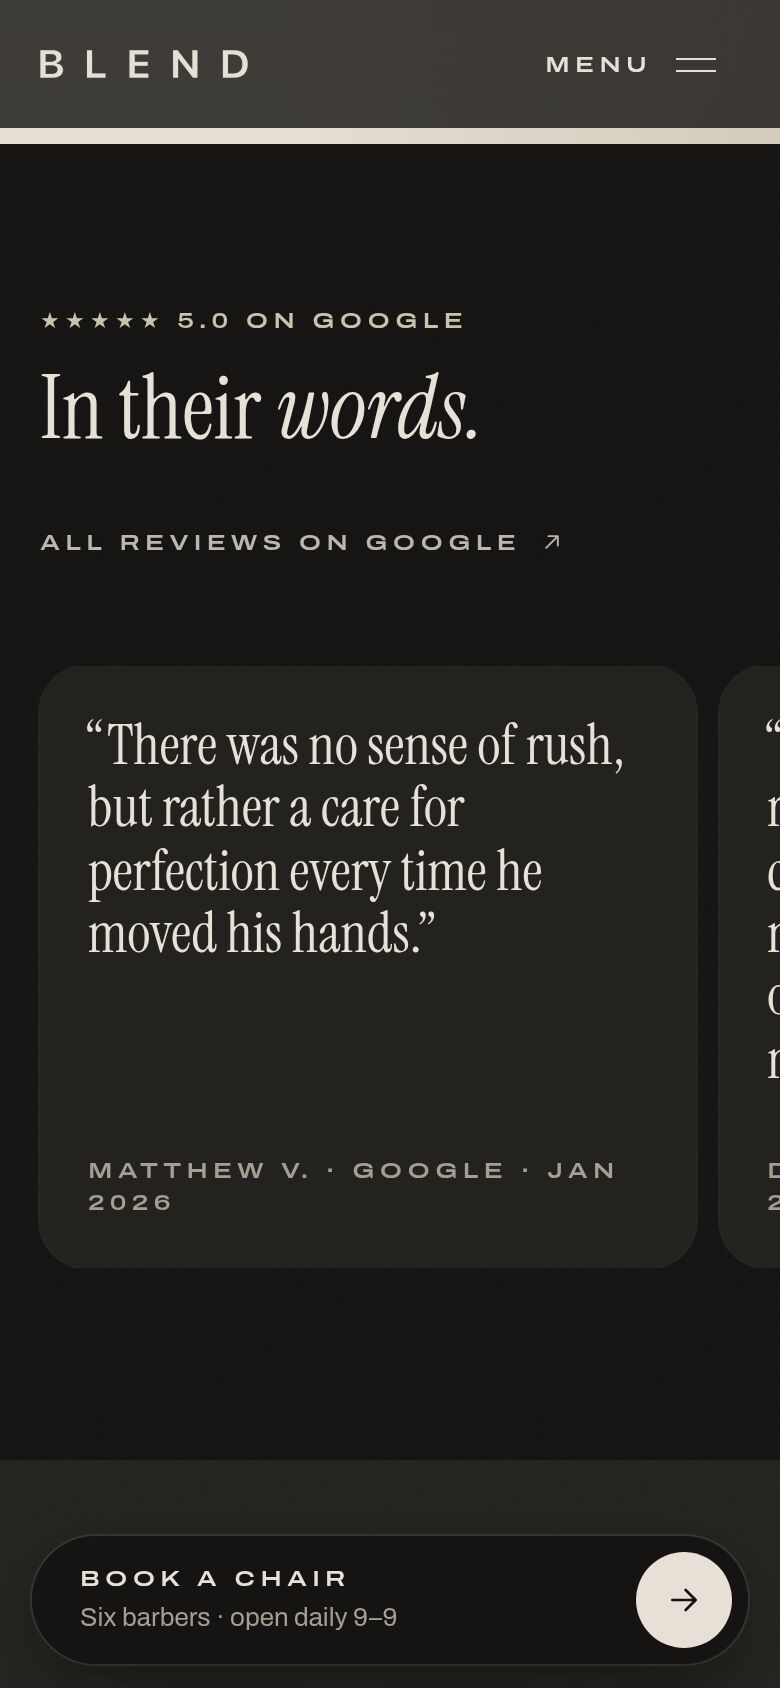
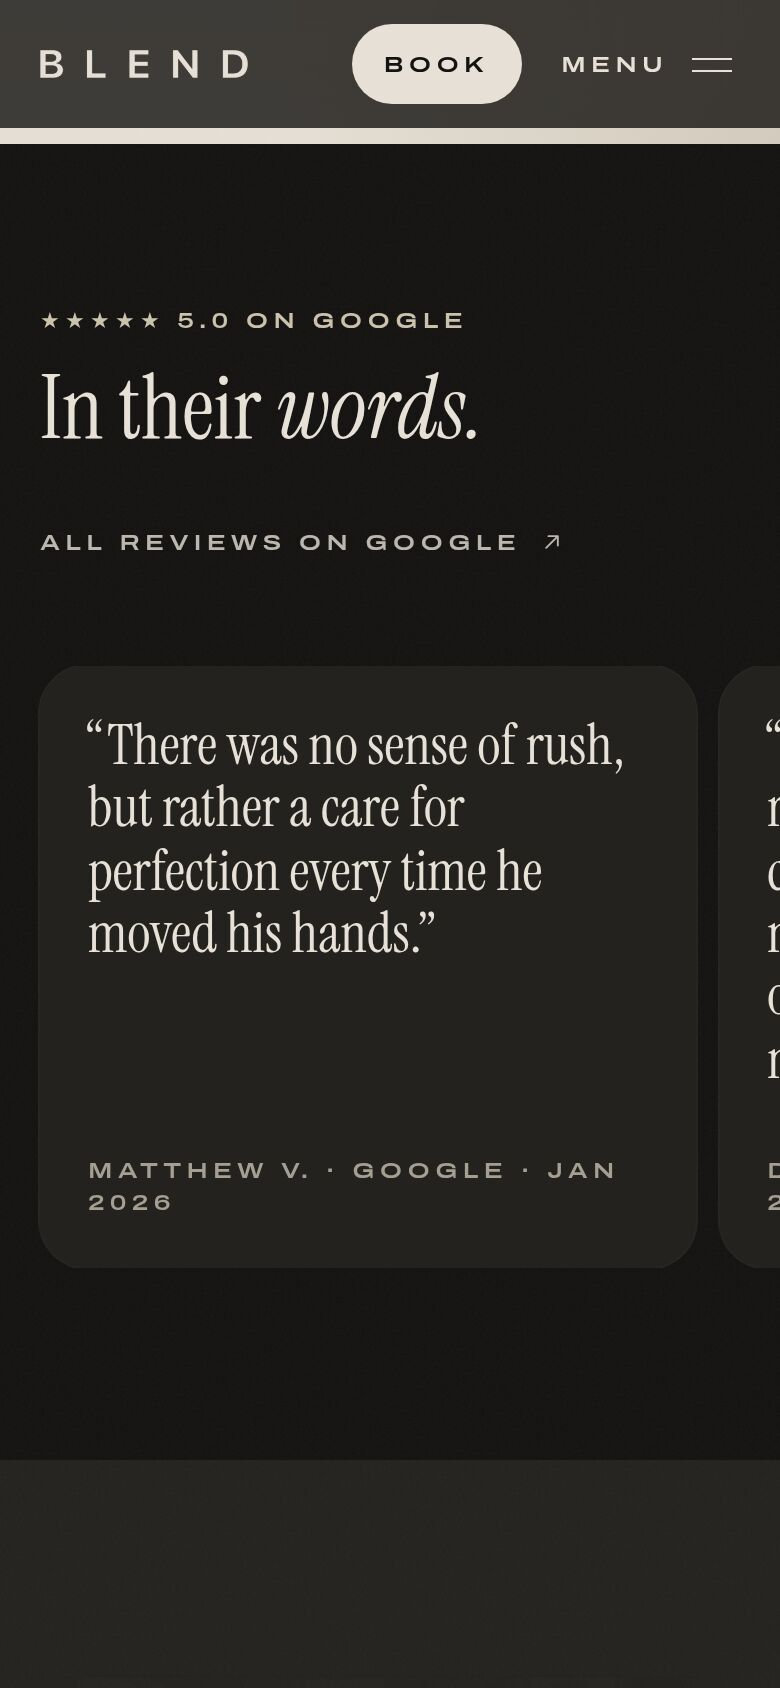
Move mobile booking from a floating bar into the header
The persistent bottom bar covered content and interrupted scrolling on
phones. A compact Book button in the header keeps booking one tap away
on every screen without overlapping the story.

Amp-Thread-ID: https://ampcode.com/threads/T-01a18838-fea1-713a-a723-a81a699fa00f

diff --git a/src/components/Chrome.tsx b/src/components/Chrome.tsx
@@ -49,11 +49,12 @@ export function Header({ onMenu }: { onMenu: () => void }) {
           </ul>
         </nav>
         <div className="flex items-center gap-2">
-          <button onClick={() => book()} className="press label hidden h-11 items-center gap-2 rounded-full bg-plaster px-5 whitespace-nowrap text-ink hover:bg-white lg:flex">
-            Book a chair <Arrow className="size-4" />
+          {/* Booking lives in the header so it is always one tap away without covering content. */}
+          <button onClick={() => book()} aria-label="Book a chair" className="press label flex h-10 items-center gap-2 rounded-full bg-plaster px-4 whitespace-nowrap text-ink hover:bg-white lg:h-11 lg:px-5">
+            Book<span className="hidden lg:inline"> a chair</span> <Arrow className="hidden size-4 sm:block" />
           </button>
-          <button onClick={onMenu} className="press label flex h-11 items-center gap-3 rounded-full px-3 xl:hidden" aria-label="Open menu">
-            Menu
+          <button onClick={onMenu} className="press label flex h-11 items-center gap-3 rounded-full pr-1 pl-3 xl:hidden" aria-label="Open menu">
+            <span className="max-[379px]:hidden">Menu</span>
             <span className="flex w-5 flex-col gap-[5px]" aria-hidden>
               <span className="h-px bg-current" />
               <span className="h-px bg-current" />
@@ -117,31 +118,5 @@ export function Menu({ open, onClose }: { open: boolean; onClose: () => void }) 
         </div>
       </div>
     </Dialog>
-  )
-}
-
-/** Persistent mobile booking action. Hidden while another booking button is on screen. */
-export function Dock({ hidden }: { hidden: boolean }) {
-  const book = useBooking()
-  return (
-    <div
-      className={`fixed inset-x-0 bottom-0 z-30 px-4 pb-[max(0.75rem,env(safe-area-inset-bottom))] transition-[transform,opacity] duration-500 ease-out-soft lg:hidden ${
-        hidden ? 'pointer-events-none translate-y-[130%] opacity-0' : ''
-      }`}
-      inert={hidden}
-    >
-      <button
-        onClick={() => book()}
-        className="press mx-auto flex h-16 w-full max-w-md items-center justify-between rounded-full bg-ink/90 pr-2 pl-6 text-left text-plaster shadow-[0_12px_40px_-8px_rgb(0_0_0/0.5)] ring-1 ring-plaster/10 backdrop-blur-xl"
-      >
-        <span>
-          <span className="label block">Book a chair</span>
-          <span className="mt-0.5 block text-[0.8125rem] text-fog">Six barbers · open daily 9–9</span>
-        </span>
-        <span className="grid size-12 place-items-center rounded-full bg-plaster text-ink">
-          <Arrow className="size-5" />
-        </span>
-      </button>
-    </div>
   )
 }

diff --git a/src/App.tsx b/src/App.tsx
@@ -1,8 +1,8 @@
-import { useCallback, useEffect, useRef, useState } from 'react'
+import { useCallback, useState } from 'react'
 import type { Barber } from './data/blend'
 import { BookingContext } from './components/booking'
 import { BookingSheet } from './components/BookingSheet'
-import { Dock, Header, Menu } from './components/Chrome'
+import { Header, Menu } from './components/Chrome'
 import { Hero } from './sections/Hero'
 import { Experience } from './sections/Experience'
 import { Barbers } from './sections/Barbers'
@@ -13,25 +13,8 @@ import { Footer, Series, Visit } from './sections/Visit'
 export default function App() {
   const [sheet, setSheet] = useState<{ open: boolean; barber?: Barber }>({ open: false })
   const [menu, setMenu] = useState(false)
-  const [pastHero, setPastHero] = useState(false)
-  const [visitInView, setVisitInView] = useState(false)
-  const visitCta = useRef<HTMLDivElement>(null)
 
   const book = useCallback((barber?: Barber) => setSheet({ open: true, barber }), [])
-
-  // The dock appears once the hero's own booking button has scrolled away,
-  // and steps aside when the closing "Book a chair" is on screen.
-  useEffect(() => {
-    const on = () => setPastHero(window.scrollY > window.innerHeight * 0.45)
-    on()
-    window.addEventListener('scroll', on, { passive: true })
-    const io = new IntersectionObserver(([e]) => setVisitInView(e.isIntersecting))
-    io.observe(visitCta.current!)
-    return () => {
-      window.removeEventListener('scroll', on)
-      io.disconnect()
-    }
-  }, [])
 
   return (
     <BookingContext.Provider value={book}>
@@ -46,10 +29,9 @@ export default function App() {
         <Services />
         <Work />
         <Series />
-        <Visit ref={visitCta} />
+        <Visit />
       </main>
       <Footer />
-      <Dock hidden={!pastHero || visitInView || sheet.open || menu} />
       <Menu open={menu} onClose={() => setMenu(false)} />
       <BookingSheet
         open={sheet.open}

diff --git a/src/sections/Visit.tsx b/src/sections/Visit.tsx
@@ -1,4 +1,3 @@
-import { forwardRef } from 'react'
 import { blend } from '../data/blend'
 import { useBooking } from '../components/booking'
 import { Img } from '../components/Img'
@@ -35,7 +34,7 @@ export function Series() {
   )
 }
 
-export const Visit = forwardRef<HTMLDivElement>(function Visit(_, ctaRef) {
+export function Visit() {
   const book = useBooking()
   return (
     <section id="visit" aria-labelledby="visit-title" className="wall grain px-5 pt-24 pb-16 lg:px-10 lg:pt-36 lg:pb-24">
@@ -47,7 +46,7 @@ export const Visit = forwardRef<HTMLDivElement>(function Visit(_, ctaRef) {
               Your chair <br />
               <em>is waiting.</em>
             </h2>
-            <div ref={ctaRef} className="reveal mt-10 flex flex-col gap-3 sm:flex-row">
+            <div className="reveal mt-10 flex flex-col gap-3 sm:flex-row">
               <button onClick={() => book()} className="press label flex h-16 items-center justify-center gap-3 rounded-full bg-ink px-9 text-plaster hover:bg-ink-soft">
                 Book a chair <Arrow className="size-4" />
               </button>
@@ -114,11 +113,11 @@ export const Visit = forwardRef<HTMLDivElement>(function Visit(_, ctaRef) {
       </div>
     </section>
   )
-})
+}
 
 export function Footer() {
   return (
-    <footer className="bg-ink px-5 pt-16 pb-[calc(env(safe-area-inset-bottom)+7rem)] text-plaster lg:px-10 lg:pb-12">
+    <footer className="bg-ink px-5 pt-16 pb-[calc(env(safe-area-inset-bottom)+3rem)] text-plaster lg:px-10 lg:pb-12">
       <div className="mx-auto max-w-[1440px]">
         <Logo full className="w-[min(100%,560px)] text-plaster" />
         <div className="mt-12 flex flex-col gap-4 border-t border-plaster/10 pt-6 text-sm text-fog lg:flex-row lg:justify-between">

diff --git a/DESIGN_NOTES.md b/DESIGN_NOTES.md
@@ -75,12 +75,12 @@ Signature mobile moments:
 1. **Cinematic hero.** It loads instantly, with no intro or splash. The photo drifts and scales slightly as you scroll, and the headline fades up and away.
 2. **Stacking experience cards.** Pure `position: sticky`: each chapter card pins and the next slides over it, while the one behind recedes. Native scrolling, no hijacking.
 3. **Swipeable barbers.** Scroll-snap cards with a progress rail and counter, plus previous and next buttons for desktop and keyboard users.
-4. **The booking sheet ("Book" mode).** A native-feeling bottom sheet you can swipe down to dismiss. It opens from the persistent dock, the hero, any barber card or the closing chapter.
+4. **The booking sheet ("Book" mode).** A native-feeling bottom sheet you can swipe down to dismiss. It opens from the header's Book button, the hero, any barber card or the closing chapter.
    - It lists the five most-booked services with prices, each deep-linked to Square.
    - A barber chip row switches every link to that barber's calendar (`team_member_id`).
    - Only the service list scrolls; "All services on Square", Call, Text and Directions stay pinned at the bottom, sized to the visible viewport (`dvh`) so phone toolbars can't hide them.
 5. **The portrait wall.** Alternate columns drift against the scroll; tap any portrait for a full-screen, swipeable, keyboard-navigable viewer.
-6. **Persistent dock.** "Book a chair · Six barbers · open daily 9–9". It appears once the hero's own button has scrolled away and steps aside when the closing "Book a chair" is on screen, so booking is always one tap away without stacking repeated buttons.
+6. **Book in the header.** A compact "Book" pill sits in the header on every screen ("Book a chair" on desktop), so booking is always one tap away without covering content. An earlier floating bottom bar was removed after review because it got in the way of scrolling on phones.
 
 Motion rules:
 - Scroll-linked effects use CSS scroll-driven animations (`animation-timeline`), which animate only transform and opacity. They need no JavaScript and fall back to static layouts.
@@ -90,7 +90,7 @@ Motion rules:
 
 ## Booking and conversion strategy
 
-- **Explore or book, never forced.** Every chapter can be skipped. Booking is reachable from the first screen, the dock, the menu and every barber.
+- **Explore or book, never forced.** Every chapter can be skipped. Booking is reachable from the header on every screen, the hero, the menu and every barber.
 - **Returning clients**: "Book with Eric" goes straight to Eric's calendar (verified for all six barbers) in about 3 taps, against about 6 today.
 - **First-timers**: a dedicated $40 card that states the scissor-cut exclusion and the 20% gratuity up front.
 - **Comparison shoppers**: real starting prices, durations and descriptions without leaving the page.
@@ -106,13 +106,13 @@ Motion rules:
   - The menu button was unreadable on the bright desktop photo; the header now has a scrim.
 - **Booking links**: all 12 service URLs open the matching Square service. All six `team_member_id` links open availability "with [barber]". No booking was submitted.
 - **Interactions**:
-  - Dock opens the sheet; barber chips update the title and links.
+  - The header Book button opens the sheet; barber chips update the title and links.
   - Swipe-down dismisses the sheet; Esc and backdrop clicks close it, and focus returns to the trigger.
   - The menu jumps to the chosen chapter after closing.
   - Service tabs respond to arrow keys; rows expand with `aria-expanded`.
   - Barber rail counter tracks swipes; the lightbox opens at the tapped photo and advances by swipe, buttons or arrow keys.
   - The mobile flow was recorded and reviewed (`.amp/in/artifacts/mobile-flow.webm`, not committed).
-- **Keyboard**: skip link first, then logo, chapters, booking and barber buttons in order, with a visible ember focus ring. The hidden dock is `inert`.
+- **Keyboard**: skip link first, then logo, chapters, booking and barber buttons in order, with a visible ember focus ring.
 - **Reduced motion**: with emulated `prefers-reduced-motion`, scroll animations compute to `none`, scroll behaviour is `auto`, and the sheet animates in 1 ms.
 - **Lighthouse 13.6** (same profiles as the current-site audit, 2 runs each, production build served locally):
 
